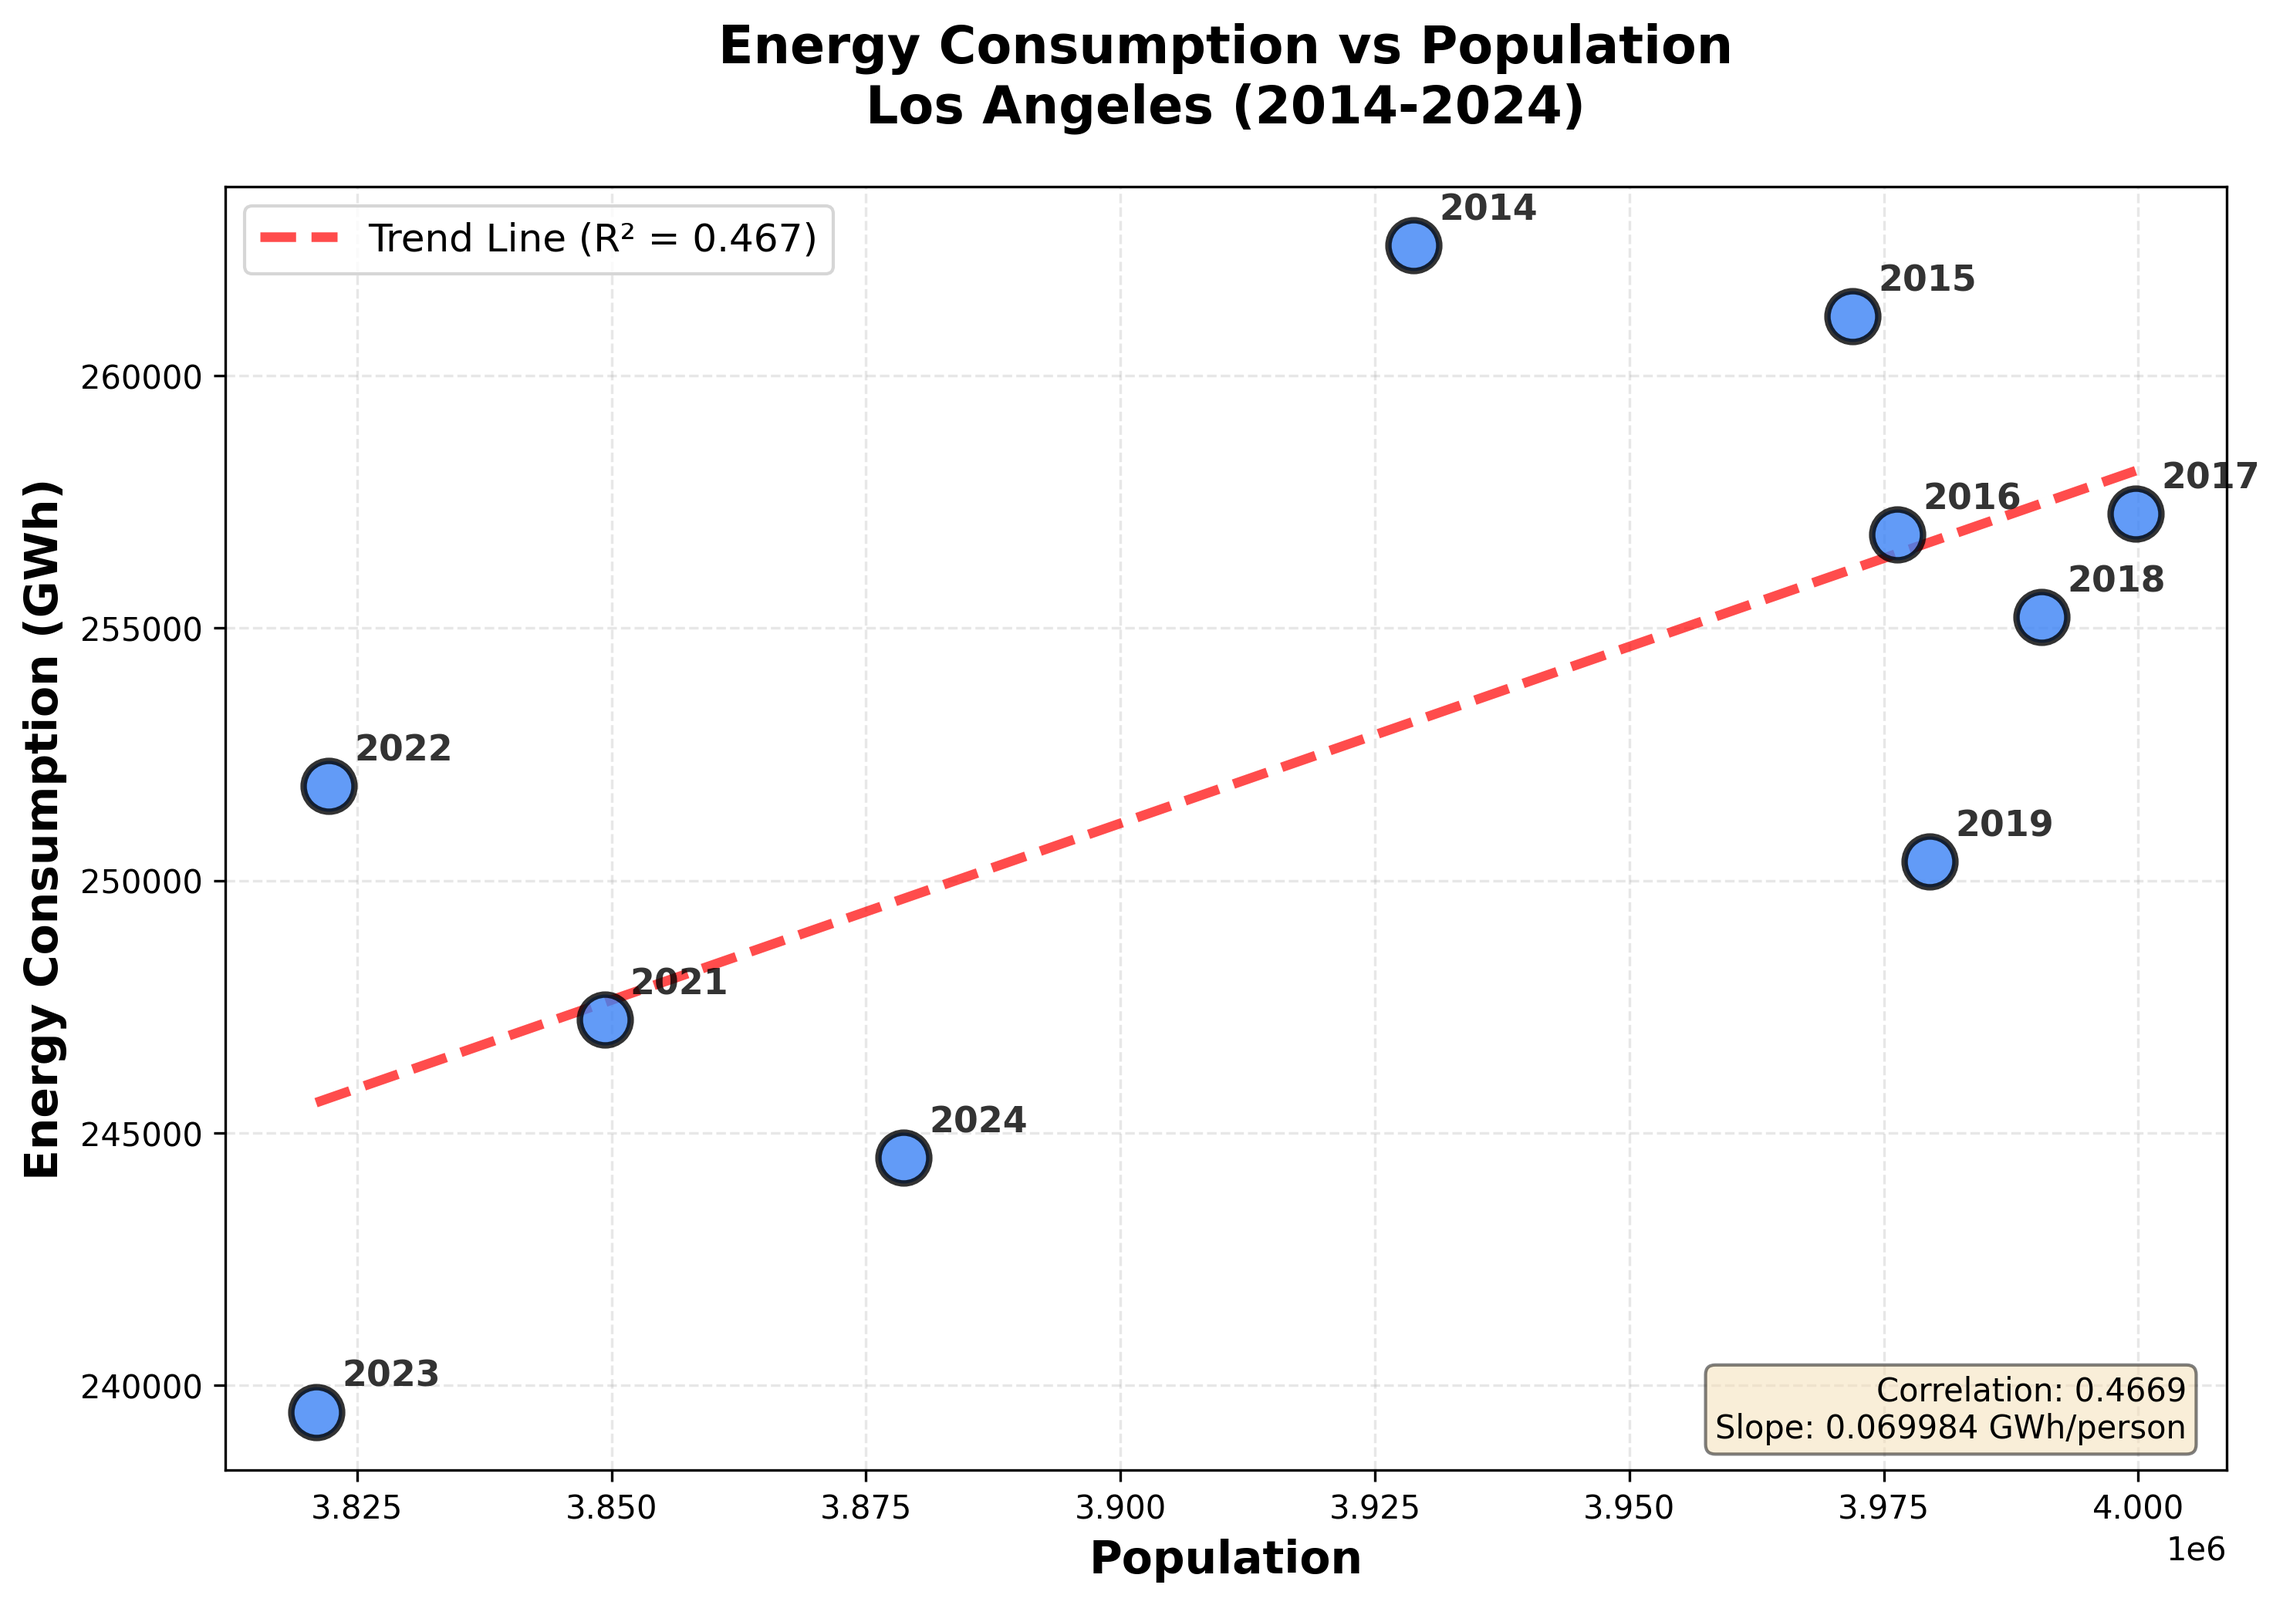
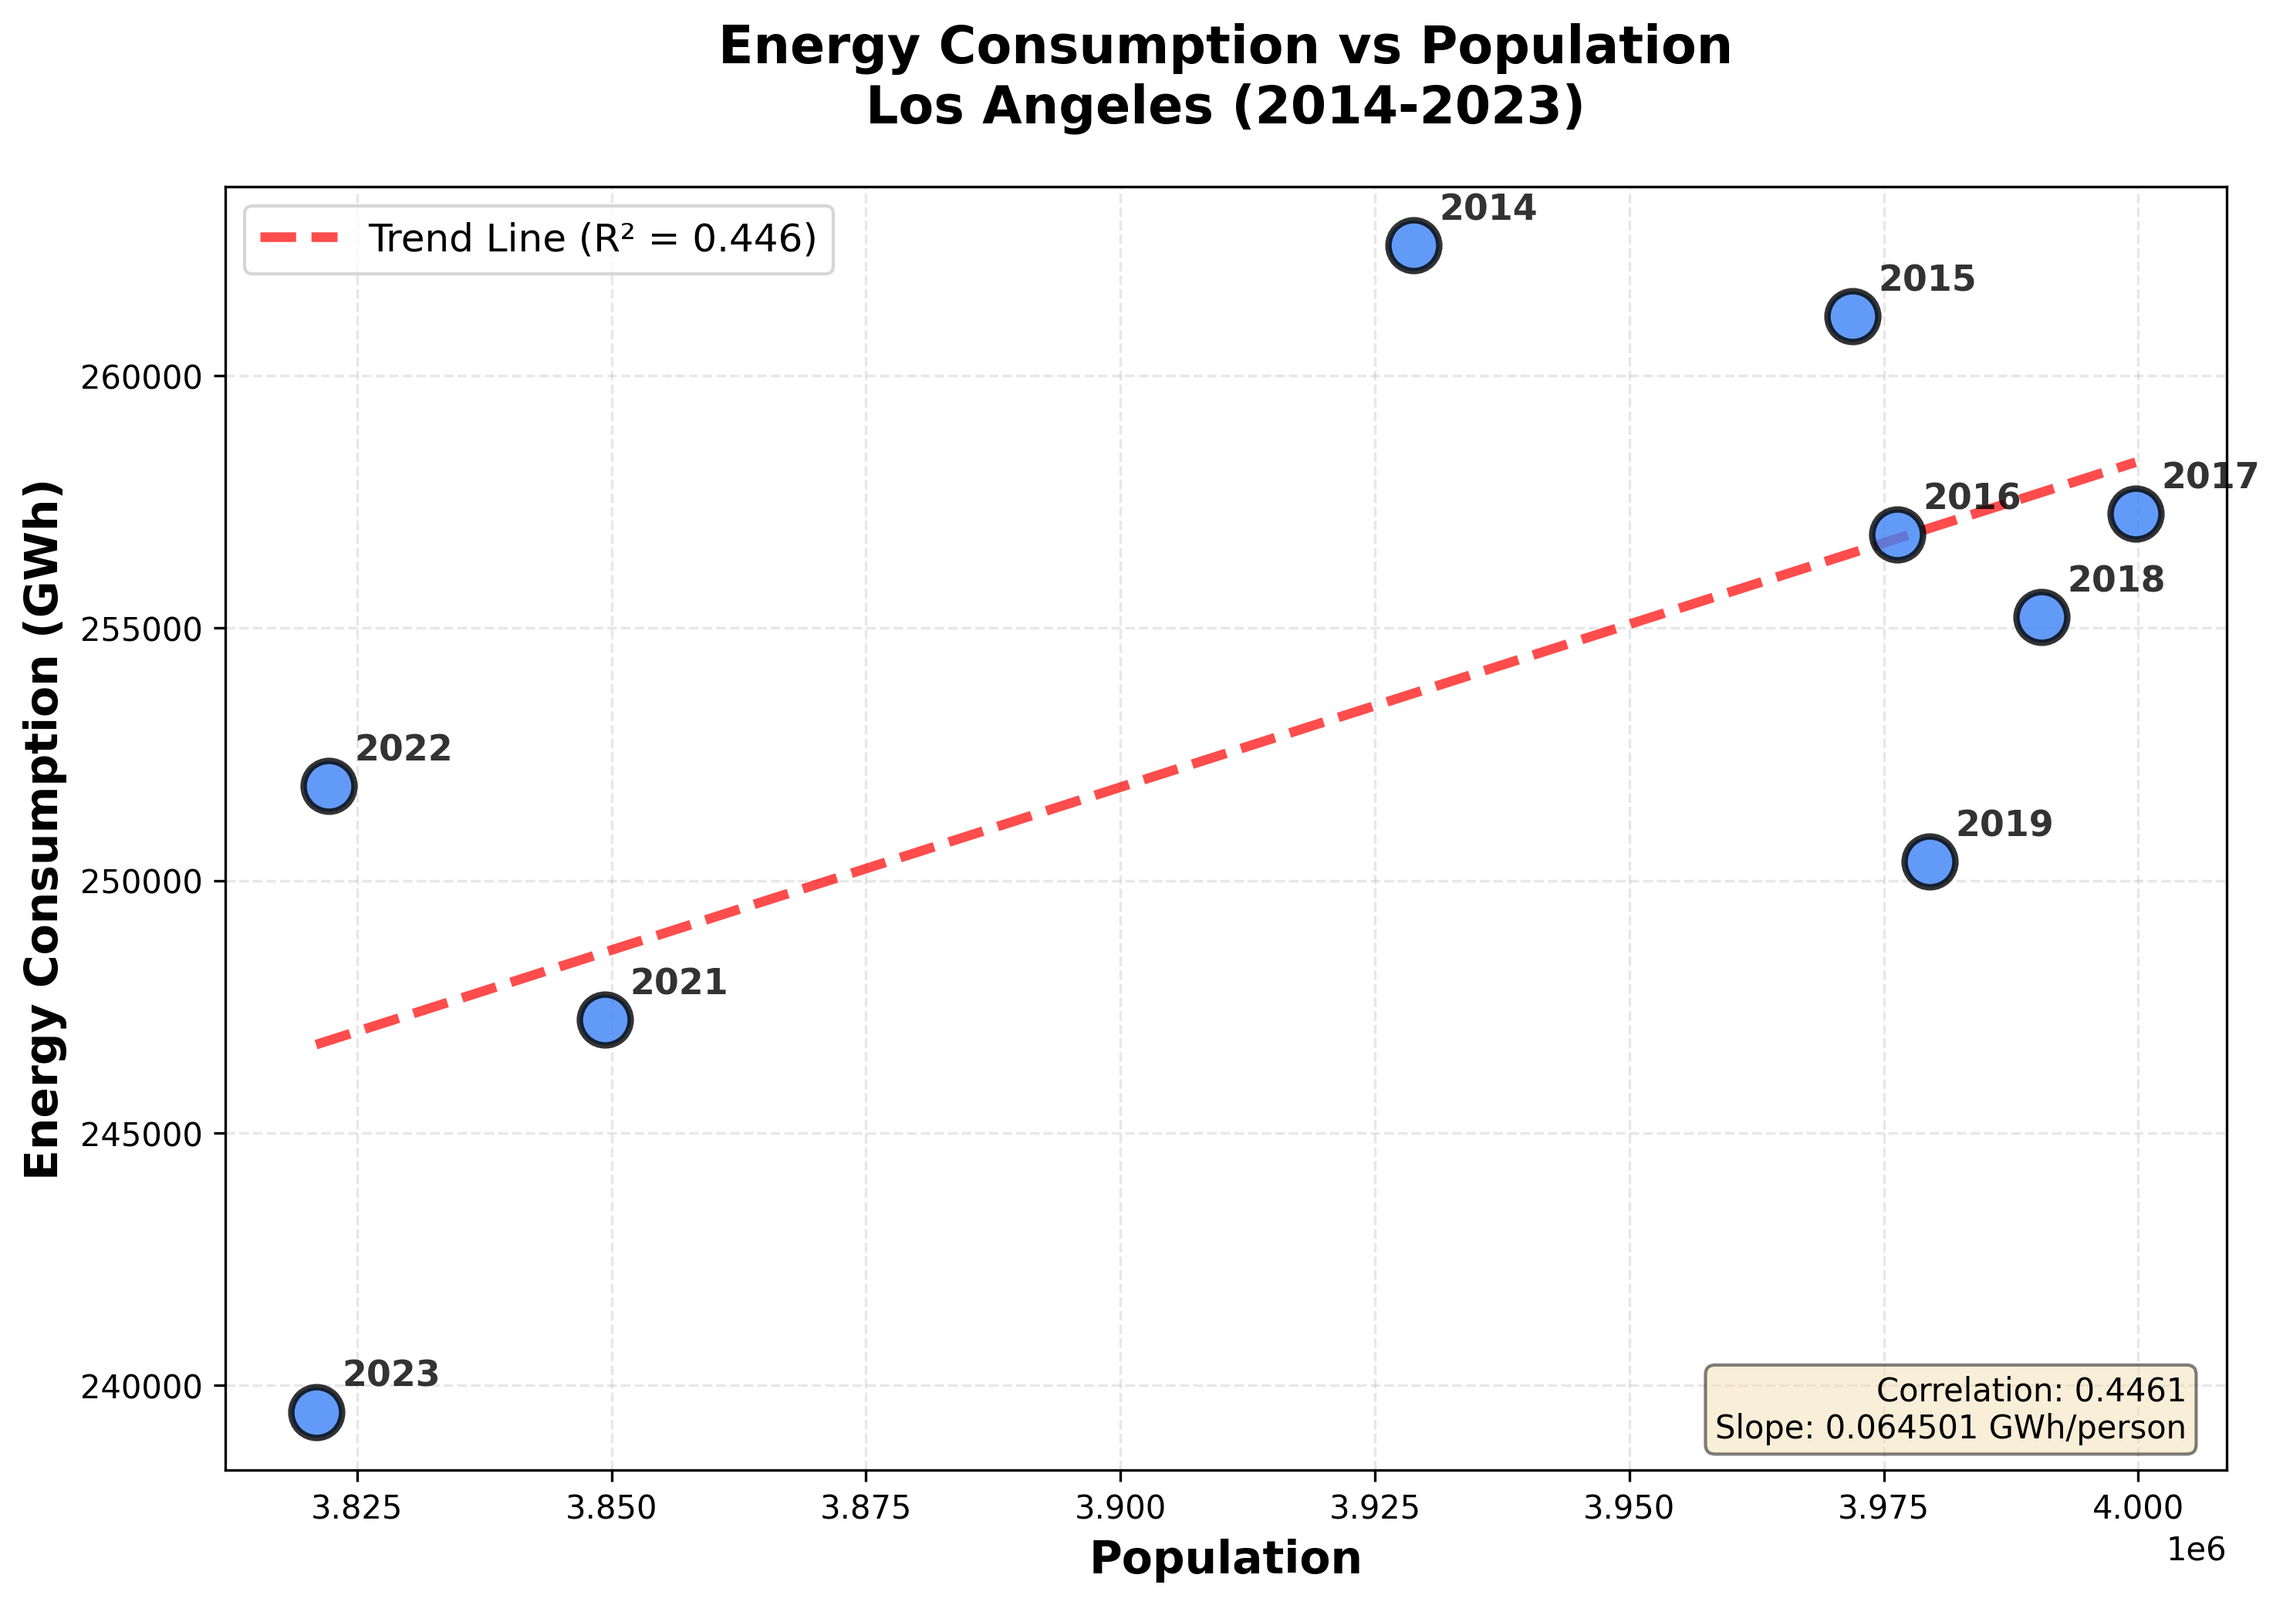
Change to ends in 2023

diff --git a/DataScience_Project2/generate_graph.py b/DataScience_Project2/generate_graph.py
@@ -5,14 +5,14 @@ from scipy import stats
 
 # Read the CSV files
 # Population data
-la_pop = pd.read_csv('la_population_2014_2024.csv')
-nyc_pop = pd.read_csv('nyc_population_2014_2024.csv')
-seattle_pop = pd.read_csv('seattle_population_2014_2024.csv')
+la_pop = pd.read_csv('la_population_2014_2023.csv')
+nyc_pop = pd.read_csv('nyc_population_2014_2023.csv')
+seattle_pop = pd.read_csv('seattle_population_2014_2023.csv')
 
 # Energy consumption data
-la_energy = pd.read_csv('LA_energy_2014_2024.csv')
-nyc_energy = pd.read_csv('NYC_energy_2014_2024.csv')
-seattle_energy = pd.read_csv('Seattle_energy_2014_2024.csv')
+la_energy = pd.read_csv('LA_energy_2014_2023.csv')
+nyc_energy = pd.read_csv('NYC_energy_2014_2023.csv')
+seattle_energy = pd.read_csv('Seattle_energy_2014_2023.csv')
 
 
 # Function to merge population and energy data for a city
@@ -79,7 +79,7 @@ def create_city_plot(city_data, city_name, filename):
 
     ax.set_xlabel('Population', fontsize=14, fontweight='bold')
     ax.set_ylabel('Energy Consumption (GWh)', fontsize=14, fontweight='bold')
-    ax.set_title(f'Energy Consumption vs Population\n{city_name} (2014-2024)',
+    ax.set_title(f'Energy Consumption vs Population\n{city_name} (2014-2023)',
                  fontsize=16, fontweight='bold', pad=20)
     ax.legend(fontsize=12, loc='upper left')
     ax.grid(True, alpha=0.3, linestyle='--')

diff --git a/DataScience_Project2/get_population.py b/DataScience_Project2/get_population.py
@@ -9,7 +9,7 @@ CITY_FIPS = {
 }
 
 
-def get_city_population(city: str, api_key: str, start_year: int = 2014, end_year: int = 2024) -> pd.DataFrame:
+def get_city_population(city: str, api_key: str, start_year: int = 2014, end_year: int = 2023) -> pd.DataFrame:
     """
     Fetch city population data from U.S. Census Bureau API using ACS 1-Year Estimates.
 
@@ -72,19 +72,19 @@ if __name__ == "__main__":
         print(f"Fetching {CITY_FIPS[city]['name']} population data...")
         print('=' * 60)
 
-        df_pop = get_city_population(city, API_KEY, 2014, 2024)
+        df_pop = get_city_population(city, API_KEY, 2014, 2023)
 
         df_pop['City'] = CITY_FIPS[city]['name']
         all_data.append(df_pop)
 
-        print(f"\n{CITY_FIPS[city]['name']} POPULATION DATA (2014-2024)")
+        print(f"\n{CITY_FIPS[city]['name']} POPULATION DATA (2014-2023)")
         print("-" * 60)
 
         if not df_pop.empty:
             print(df_pop[['Year', 'Population']].to_string(index=False))
 
             # Save to individual CSV file
-            output_file = f"{city.lower()}_population_2014_2024.csv"
+            output_file = f"{city.lower()}_population_2014_2023.csv"
             df_pop[['Year', 'Population', 'City']].to_csv(output_file, index=False)
             print(f"\n Data saved to {output_file}")
         else:

diff --git a/DataScience_Project2/get_energy.py b/DataScience_Project2/get_energy.py
@@ -176,7 +176,7 @@ if __name__ == "__main__":
             output_df = output_df.sort_values('Year').reset_index(drop=True)
 
             # Save to CSV
-            filename = f"{city_code}_energy_2014_2024.csv"
+            filename = f"{city_code}_energy_2014_2023.csv"
             output_df.to_csv(filename, index=False)
             print(f"{city_name}: {filename} ({len(output_df)} years)")
 
